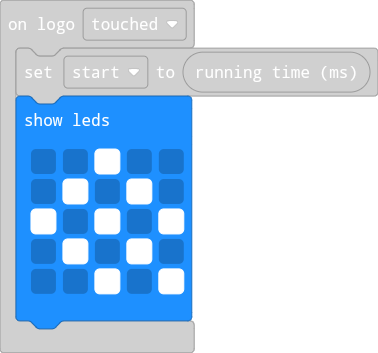
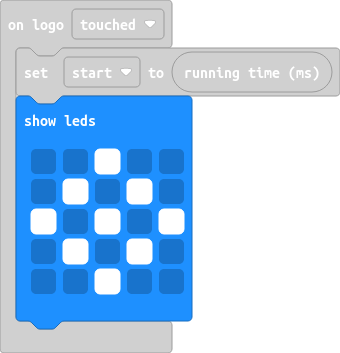
Update main.blocks, main.ts

diff --git a/main.ts b/main.ts
@@ -7,7 +7,7 @@ input.onLogoEvent(TouchButtonEvent.Touched, function () {
         . # . # .
         # . # . #
         . # . # .
-        . . # . #
+        . . # . .
         `)
 })
 input.onLogoEvent(TouchButtonEvent.Released, function () {
